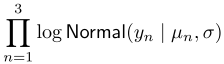
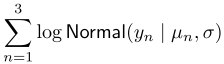
MatsuuraKentaroさんからの指摘事項を反映

Changed region(s): [[0.0, 0.2812, 0.1562, 0.75]]

diff --git a/part02/chap13/chap13.md b/part02/chap13/chap13.md
@@ -22,6 +22,7 @@ model {
 すべての生徒がすべての問題に答えているわけではないなら、この密な配列のコーディングはもはや動作しません。Stanは未定義の値をサポートしていないからです。図13.1は、$J=3$で$K=4$の場合の例で、欠測の応答はRと同じくNAとしています。StanにはRのNA値のサポートはありませんので、このデータ構造を直接使うことはできません。かわりに、データベースのような「長い形式」に変換する必要があります。そのためには、値とは別に、$j$および$k$のインデックスを示す列を持たせます。例えば、$jj$と$kk$をインデックスのために使うと（Gelman and Hill, 2007による）、データ構造は、図13.1の右側の例のようにコーディングできます。この例では、$y_{1,1}=0$、$y_{1,2}=1$などとなっており、最後は$y_{3,2}=1$です。ここにない項目はすべて未定義です。
 
 ![$$y = \left[\begin{array}{cccc} 0 & 1 & \mathrm{NA} & 1 \\ 0 & \mathrm{NA} & \mathrm{NA} & 1 \\ \mathrm{NA} & 0 & \mathrm{NA} & \mathrm{NA} \end{array}\right] \quad \begin{array}{ll|l}jj & kk & y \\ \hline 1 & 1 & 0 \\ 1 & 2 & 1 \\ 1 & 4 & 1 \\ 2 & 1 & 0 \\ 2 & 4 & 1 \\ 3 & 2 & 0 \end{array}$$](fig/fig01.png)
+
 図13.1: まばらな配列をStanでコーディングした例。左側は、R由来のNA記法を使った疎行列$y$の定義です（これはStanではサポートされていません）。右側は、同じ疎行列$y$をデータベース状にエンコーディングしたもので、これはStanで直接扱うことができます。最初の2列、$jj$と$kk$はインデックスを示し、最後の列$y$がその値を示します。例えば、右側のデータベース状のデータ構造の5行目は$y_{2,4}=1$を示します。
 
 定義されている$y$の数を$N$とすると、ここでは$N=6$です。データとモデルは以下のように定式化できます。
@@ -50,14 +51,17 @@ model {
 
 例えば、3群があって、それぞれの観測回数が異なるようなデータ構造を考えます。
 
-とても単純な、切片が変化するモデルを仮定します。ベクトル化した記法を使うと、尤度は以下のようになります（**訳注: 対数にしているので、積ではなく和ではないかと思いますが**）。
-![$$\prod_{n=1}^{3}\log\mathsf{Normal}(y_{n}\mid\mu_{n},\sigma)$$](fig/fig02.png)
+とても単純な、切片が変化するモデルを仮定します。ベクトル化した記法を使うと、尤度は以下のようになります（訳注: 原文では積（$\prod$）になっていますが、対数にしているので和（$\sum$）のはずです）。
+
+![$$\sum_{n=1}^{3}\log\mathsf{Normal}(y_{n}\mid\mu_{n},\sigma)$$](fig/fig02.png)
+
 これを直接Stanでエンコードする方法はありません。
 
-まばらなデータの例のように、完全なデータベース型の構造を使うことができるでしょうが、これは非効率です。不要なインデックスがスペースを無駄にしますし、ベクトルによる密度の演算ができません。このデータをコーディングするもっと良い方法は、単一のリストに値を持たせ、各下位配列のサイズを示すデータ構造を別に用意するというものです。図13.2の右側にこれを示しています。このコーディングでは、値のための配列を1つだけ、それから各列のサイズのためにもう1つ別の配列を使っています。
+まばらなデータの例のように、完全なデータベース型の構造を使うことができるでしょうが、これは非効率です。不要なインデックスがスペースを無駄にしますし、ベクトルによる密度の演算ができません。このデータをコーディングするもっと良い方法は、単一のリストに値を持たせ、各部分配列のサイズを示すデータ構造を別に用意するというものです。図13.2の右側にこれを示しています。このコーディングでは、値のための配列を1つだけ、それから各列のサイズのためにもう1つ別の配列を使っています。
 
-![$$\begin{minipage}[c]{0.35\textwidth} $y_1 =  \left[1.3 \ \ 2.4 \ \ 0.9\right]$ \\[3pt] $y_2 = \left[-1.8 \ \ -0.1\right]$ \\[3pt] $y_3 = \left[12.9 \ \ 18.7 \ \ 42.9 \ \ 4.7\right]$ \end{minipage} \ \ \ \begin{minipage}[c]{0.60\textwidth} $z = [1.3 \ \ 2.4 \ \ 0.9 \ \ -1.8 \ \ -0.1 \ \ 12.9 \ \ 18.7 \ \ 42.9 \ \ 4.7]$ \\[3pt] $s  =  \{ 3 \ \ 2 \ \ 4 \}$ \end{minipage}$$](fig/fig03.png)
-図13.2: 不ぞろいな配列をStanでコーディングした例。左側は、サイズの異なる3列（$y_1$はサイズ3、$y_2$はサイズ2、$y_3$はサイズ４）からなる不ぞろいなデータ構造$y$の定義です。右側は、Stanでこのデータをコーディングする方法の例です。単一のベクトル$y$を使ってすべての値を保持し、整数値の別の配列$s$に、群の行のサイズを持たせています。この例では$y_{1}=z_{1:3}$、$y_{2}=z_{4:5}$、$y_{3}=z_{6:9}$です。
+![$$\begin{minipage}[c]{0.35\textwidth} $y_1 = \left[1.3 \ \ 2.4\ \ 0.9\right]$ \\ $y_2 = \left[-1.8\ \ -0.1 \right]$ \\ $y_3 = \left[12.9\ \ 18.7\ \ 42.9\ \ 4.7\right]$ \end{minipage} \begin{minipage}[c]{0.60\textwidth} $z = [1.3\ \ 2.4\ \ 0.9\ \ -1.8\ \ -0.1\ \ 12.9\ \ 18.7\ \ 42.9\ \ 4.7]$ \\ $s  =  \{3\ \ 2\ \ 4 \}$ \end{minipage}$$](fig/fig03.png)
+
+図13.2: 不ぞろいな配列をStanでコーディングした例。左側は、サイズの異なる3行（$y_1$はサイズ3、$y_2$はサイズ2、$y_3$はサイズ4）からなる不ぞろいなデータ構造$y$の定義です。右側は、Stanでこのデータをコーディングする方法の例です。単一のベクトル$y$を使ってすべての値を保持し、整数値の別の配列$s$に、群ごとの行のサイズを持たせています。この例では$y_{1}=z_{1:3}$、$y_{2}=z_{4:5}$、$y_{3}=z_{6:9}$です。
 
 するとこのモデルは、スライシング演算を使って、以下のようにコーディングできます。
 
